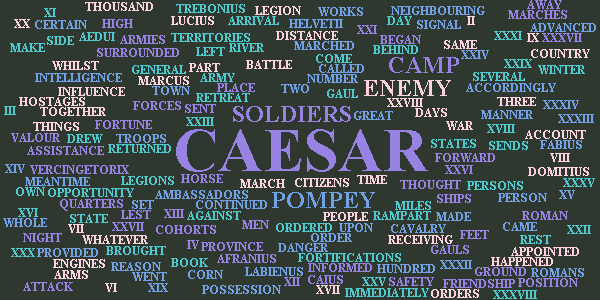
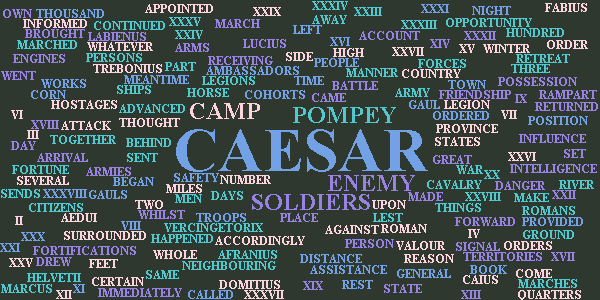
+code cleaned, must be packaged for submission

diff --git a/Runner.java b/Runner.java
@@ -20,15 +20,12 @@ public class Runner{
         int i;
         char menuSelection = ' ';
         Map<String, Integer> frequencyTable;
-        //Word[] words;       //must change how Word collection is created, store as priority queue and implement comparitor on queue
-                            //will reduce the sorting work
         Queue<Word> words;
         WordCloudCreator wcg;
         WCGmenu menu;
 
         Scanner sc = new Scanner(System.in);
         
-        //loop menu until exit selected
         //loop will continue until N/n entered
         do{
             i = 0;
@@ -42,19 +39,17 @@ public class Runner{
             frequencyTable = TableFunctions.getFullTable(frequencyTable);
             file.readFile();
 
-                //Big-O running time: O(1) 
-                //It is my understanding that 0(1) represents a constant value, where as 0(n) represenst the number of elements in a structure
-                //This floop will run as many times as was input by the user at the menu screen, which is significantly less than the frequencyTables elements
-                //However this may be 0(n) times if using words.length as n, but I do believe this is best case scenario what must be achieved in this loop.
+                //Big-O running time: O(n2)
+                //Adds every element of HashMap to Queue and sorts it, I'm not sure how bad this is
+                //It would seem that the comparitor check is quick as it simply checks value,
+                //but correct placement on the Queue seems to imply O(n2)
             for (Map.Entry<String, Integer> ft: frequencyTable.entrySet()){
                 if (ft.getKey() == ""){ continue; }
                 //System.out.printf(".%s, %d\n", ft.getKey(), ft.getValue());
                 words.offer(new Word(ft.getKey(), ft.getValue()));
-                if (i >= menu.getMaxWords()) break; else i++;    //may not be necessary
             }
 
             wcg = new WordCloudCreator(words);
-            //check if file exists already, if so, ust re-set factor sizing and other static var's which have been changed
             WordCloudCreator.saveImg(menu.getFileOut());
 
             System.out.println("Image created.");
@@ -62,6 +57,6 @@ public class Runner{
             menuSelection = sc.next().toUpperCase().charAt(0);
             System.out.println();
 
-        }while((menuSelection != 'N'));//||(menuSelection != 'n'));
+        }while((menuSelection != 'N'));
     }
 }

diff --git a/ParserHtml.java b/ParserHtml.java
@@ -20,7 +20,6 @@ public class ParserHtml implements Parser{
 
         //Big-O running time: O(n) as far as I am aware
         //The following is pretty horrible but I do not believe it can be improved much
-        //String line seems awful and should be replaced with StringBuffer for re-used memory space
         //as for the file reading, it starts at the begining and moved to the end inspecting each character element along the way
     public void parse(String webIn, Map<String, Integer> frequencyTable){
 		final String [] tagsTab = {"!doctype","a","abbr","acronym","address","applet","area","article","aside","audio","b","base","basefont","bdi","bdo","bgsound","big","blink","blockquote","body","br","button","canvas","caption","center","cite","code","col","colgroup","content","data","datalist","dd","decorator","del","details","dfn","dir","div","dl","dt","element","em","embed","fieldset","figcaption","figure","font","footer","form","frame","frameset","h1","h2","h3","h4","h5","h6","head","header","hgroup","hr","html","i","iframe","img","input","ins","isindex","kbd","keygen","label","legend","li","link","listing","main","map","mark","marquee","menu","menuitem","meta","meter","nav","nobr","noframes","noscript","object","ol","optgroup","option","output","p","param","plaintext","pre","progress","q","rp","rt","ruby","s","samp","script","section","select","shadow","small","source","spacer","span","strike","strong","style","sub","summary","sup","table","tbody","td","template","textarea","tfoot","th","thead","time","title","tr","track","tt","u","ul","var","video","wbr","xmp"};
@@ -68,7 +67,6 @@ public class ParserHtml implements Parser{
 						frequencyTable.put(words[i], frequencyTable.get(words[i]) + 1);
 					}
 				}
-
 			}
 			br.close();
 		} catch (java.net.MalformedURLException e) {

diff --git a/FileInfo.java b/FileInfo.java
@@ -15,7 +15,6 @@ public class FileInfo{
     private Map<String, Integer> frequencyTable;
 
     public FileInfo(String fileIn, Map<String, Integer> frequencyTable){
-        //replace with setters and getters;
         this.setFile(fileIn);
         this.setFrequencyTable(frequencyTable);
     }//constructor
@@ -43,7 +42,6 @@ public class FileInfo{
         This function reads for user input.
         It calls the determineFileInType() function and calls parseHtml() for webpage and parseFile() for file
     */
-
         //Big-O running time: O(1) 
         //There is nothing which impacts runtime. There is no loops and not much data being manipulated.
     public void readFile(){
@@ -70,7 +68,7 @@ public class FileInfo{
         It is called as part of readFile()
     */
         //Big-O running time: O(1), n being length of String this.file
-        //this methos id not quite O(n) as I have reduced the search to searching 8 characters total
+        //this method id not quite O(n) as I have reduced the search to searching 8 characters total
     private char determineFileInType(){
         String file = this.getFile().substring(3, this.getFile().length());
         // logically decide how to determine better if is website or file.

diff --git a/WordCloudCreator.java b/WordCloudCreator.java
@@ -57,11 +57,11 @@ public class WordCloudCreator {
 
         for (int i = 0; i < words.size(); i++){
             currentWord = words.poll();
-            //add to array for collision check
+            //add to array as polled from queue
             wordsArray[i] = currentWord;
 
             currentWord.calculateValue();
-            //System.out.println(currentWord.getWord() + "!" + currentWord.getCount() +"!" + currentWord.getWeight());
+            System.out.println(currentWord.getWord() + "!" + currentWord.getCount() +"!" + currentWord.getWeight());
             currentWord.createFont();
             graphics.setColor(colors[rnd.nextInt(4)]);
             graphics.setFont(currentWord.getFont());
@@ -123,7 +123,6 @@ public class WordCloudCreator {
         try {
             ImageIO.write(image, "png", new File(saveAs + ".png")); 
         } catch (IOException e) {
-            //TODO: handle exception
             System.out.printf("Error saving file '%s'%n", saveAs + ".png");
         }
         graphics.dispose();

diff --git a/ImgPlacement.java b/ImgPlacement.java
@@ -8,7 +8,7 @@ public class ImgPlacement{
         int y = (sizeY / 2) + (word.getImgHeight() / 2);
 
         return new Point(x, y);
-    }
+    }//getStartLocation()
 
         //Big-O running time: O(1)?
         //Checks some variables from word class, best case 2 checks, worst case 4 checks
@@ -20,7 +20,7 @@ public class ImgPlacement{
             return false;
         }
         return true;
-    }
+    }//inBoundsCheck()
 
         //Big-O running time: O(random)?
         //Horrible code, currently it is placing images at random and not filterning previously selected random, worst case scenario it may never end.
@@ -59,5 +59,5 @@ public class ImgPlacement{
         }
         point = new Point(x, y);
         return point;
-    }
+    }//getLocation()
 }

diff --git a/Word.java b/Word.java
@@ -23,7 +23,7 @@ public class Word{
     private String word;
     private int count;
     private float weight;
-    static float highWordCount = 0;  //set by constructor - used to assign weight
+    static float highWordCount = 0;
     private static int factor = 5;
     private Font font;
     private int fontWidth;
@@ -86,7 +86,7 @@ public class Word{
     //===== FontMetrics[END] =====/
 
     /*
-        Called in constructor to calculate the value of the word based on word count
+        Calculate the value of the word based on word count
         if words are not ordered as they are created, this would need be called on each word after all are created
         Unnecessary due to how they are created in this program.
     */

diff --git a/WordComparator.java b/WordComparator.java
@@ -1,15 +1,21 @@
-
+/*
+Author: Eoin Wilkie
+Class information:
+    This class is used to compare Word objects by count 
+*/
 
 import java.util.Comparator;
 import java.util.Map;
 import java.util.Map.Entry;
 
+	//Big-O running time: O(1)
+	//Runs one check per object, this is quick.
 public class WordComparator implements Comparator <Word>{
 	public int compare(Word current, Word next){
 		if (current.getCount() < next.getCount()){
-			return 1; //Less than
+			return 1; //next is greater, higher priority
  		}else if (current.getCount() > next.getCount()){
-			return -1; //Greater than
+			return -1; //next is less, lower priority
 		}else{
 			return 0; //The same as...or equal...
 		}

diff --git a/ParserFile.java b/ParserFile.java
@@ -22,7 +22,6 @@ public class ParserFile implements Parser{
 
         //Big-O running time: O(n) as far as I am aware
         //The following is pretty horrible but I do not believe it can be improved much
-        //String line seems awful and should be replaced with StringBuffer for re-used memory space
         //as for the file reading, it starts at the begining and moved to the end inspecting each character element along the way
     public  void parse(String fileIn, Map<String, Integer> frequencyTable){
         String[] words;     //unsure if a different data structure will improve this, the word[] must start at begining and iterate over each element

diff --git a/IgnoreWords.java b/IgnoreWords.java
@@ -13,7 +13,6 @@ import java.io.IOException;
 import java.util.Set;
 import java.util.TreeSet;
 
-//note, may be best to save this in a tree structure for String strIgnoreWords;
 public final class IgnoreWords{
     private String ignoreFile;
     private Set<String> ignoreWords;
@@ -46,7 +45,6 @@ public final class IgnoreWords{
         try {
             br = new BufferedReader(new FileReader(this.getIgnoreFile()));
 
-            //while ((line = br.readLine()) != null) {
             while ((line = br.readLine()) != null) {
                 sbIgnoreWords.setLength(0);
                 sbIgnoreWords.append(line.toUpperCase()); 

diff --git a/WCGmenu.java b/WCGmenu.java
@@ -68,7 +68,7 @@ public class WCGmenu{
         //this.setFileIn("PoblachtNaHEireann.txt");
         //this.setFileIn("https://www.thejournal.ie/two-arrested-finglas-drugs-samurai-swords-4524379-Mar2019/");
         System.out.println("Enter MAXWORDS");
-        this.setMaxWords(20000);
+        this.setMaxWords(100);
         System.out.println("Enter SAVEAS");
         this.setFileOut("WordCloudImg");
     }//displayMenu()

diff --git a/TableFunctions.java b/TableFunctions.java
@@ -2,8 +2,8 @@
 Author: Eoin Wilkie
 Class information:
     This class contains functions to manipulate the data held in a Map<String, Integer> in order to return 
+    This class is largely unused
 */
-//*NOTE* currently using a LinkedHashMap to allow for an ordered Map, should be changed to a different data structure. Priority?
 
 //ADD PACKAGE HERE
 
